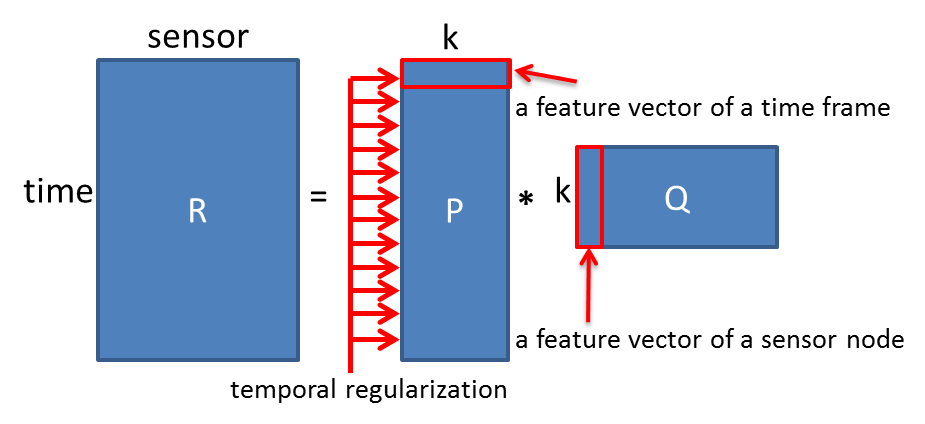
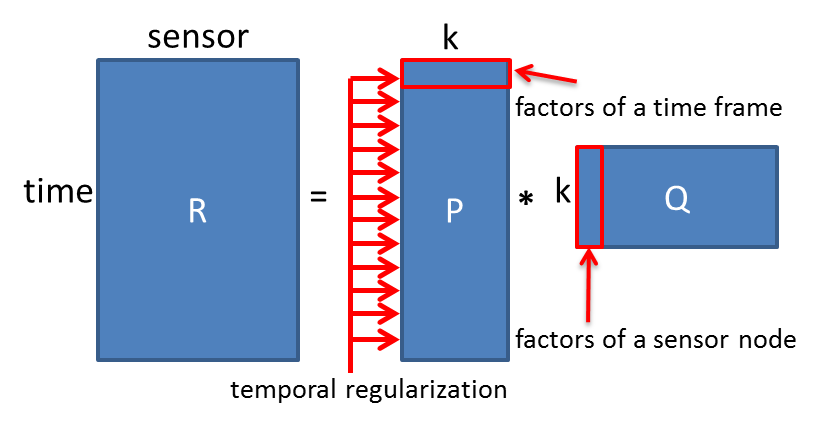
Matrix factorization update (notations and some details)

diff --git a/sensys2012/matrix_factorization.tex b/sensys2012/matrix_factorization.tex
@@ -2,7 +2,7 @@
 
 
 % need update and to be consistent with related work 
-The essence of Matrix Factorization~(MF) is to learn the latent factors from observed entries in the matrix, and use them to predict unobserved entries.  MF is one of the most successful models in domains like Collaborative Filtering~(CF) in recommendation systems. In CF, the rows of the matrix are users and the columns are items, and we want to predict unknown rating scores that reflect users' preference to items. The unknown scores prediction in CF is equivalent to missing data recovery in Wireless Sensor Network~(WSN), except the rows become time frames, the columns become sensor nodes, and the data characteristic is different. 
+The essence of Matrix Factorization~(MF) is to learn the latent factors from observed entries in the matrix, and use them to predict unobserved entries. MF is one of the most successful models in domains like Collaborative Filtering~(CF) in recommendation systems. In CF, the rows of the matrix are users and the columns are items, and we want to predict unknown rating scores that reflect users' preference to items. The unknown rating prediction in CF is equivalent to missing data recovery in Wireless Sensor Network~(WSN), except the rows become time frames, the columns become sensor nodes, and the data characteristic is different. 
 
 In the following, we will first introduce the basics of MF. Then we will talk about how we modify the objective function of MF and make it adapted to the WSN data, and finally the complete procedure of our proposed method.
 
@@ -10,15 +10,18 @@ In the following, we will first introduce the basics of MF. Then we will talk ab
 
 The idea of MF is strongly related to Singular Value Decomposition~(SVD). SVD decomposes a completely observed matrix~$\mathbf{R}$ into one diagonal matrix~$\mathbf{D}$ and two unitary matrix~$\mathbf{U}$ and~$\mathbf{V}$ such that
 \begin{equation*} \mathbf{R} = \mathbf{U}\mathbf{D}\mathbf{V}^T. \end{equation*}
-While keeping the largest K singular values, $\mathbf{U}_K \mathbf{D}_K \mathbf{V}_K$ is the best K-rank approximation of $\mathbf{R}$ under Frobenius Norm. 
+While keeping the largest K singular values, $\mathbf{U}_K \mathbf{D}_K \mathbf{V}_K^T$ is the best K-rank approximation of $\mathbf{R}$ under Frobenius Norm. 
 
-Yet, conventional SVD is undefined when the matrix~$\mathbf{R}$ is incomplete. Recent research shows\cite{koren2009matrix} when the matrix~$\mathbf{R}$ is partially observed, a better approach is to factorize $\mathbf{R}$ by considering observed entries only. By some numerical optimization procedures, we can obtain two small matrices~$\mathbf{P}_{MK}$ and $\mathbf{Q}_{NK}$ that approximate observed entries in the matrix~$\mathbf{R}_{MN}$
-\begin{equation*}\mathbf{R} \approx \mathbf{P} \mathbf{Q}^T.\end{equation*}
-If $\mathbf{R}$ is a matrix of temperature readings, then each row of $\mathbf{P}$ represents a latent factor of the time frame and each row of $\mathbf{Q}$ is a latent factor of the sensor node.
+Yet, conventional SVD is undefined when the matrix~$\mathbf{R}$ is incomplete. Recent research shows\cite{koren2009matrix} when the matrix~$\mathbf{R}$ is partially observed, a better approach is to factorize $\mathbf{R}$ by considering observed entries only. By some numerical optimization procedures, we obtain two small matrices~$\mathbf{P}_{MK}$ and $\mathbf{Q}_{KN}$ that approximate observed entries in the matrix~$\mathbf{R}_{MN}$
+\begin{equation*}\mathbf{R} \approx \mathbf{P} \mathbf{Q}.\end{equation*}
+If $\mathbf{R}$ is a matrix of temperature readings, then each row of $\mathbf{P}$ represents latent factors of the time frame and each column of $\mathbf{Q}$ is the latent factors of the sensor node.
 
-Here we adopted the biased MF: row bias $\mu_u$ and column bias $\mu_i$ is added on every row and column. The indices $u$, $i$ come from recommendation literature where the rows are users and columns are items. In a temperature monitoring system, the row bias can be understood as the average temporal at the time, and the column bias reflects the constant bias of the sensor node. Therefore, our prediction $\hat{r}_{u,i} = \mu_u + \mu_i + \mathbf{p}_u^T \mathbf{q}_i$. After adding the regularization term, the whole objective function becomes
-\begin{equation*} \frac{1}{2}\sum_{u,i}{(r_{u,i} - \hat{r}_{u,i})}^2 + \frac{\beta_1}{2}\sum_u{\mu_u^2}, + \frac{\beta_2}{2}\sum_i{\mu_i^2} + \frac{\beta_3}{2}\sum_u{||\mathbf{p}_u||^2} + \frac{\beta_4}{2}\sum_i{||\mathbf{q}_i||^2}.\end{equation*}
-Among which, $\mathbf{p}_u$ and $\mathbf{q}_i$ are feature vectors of row $u$ and column $i$. $\beta_1$, $\beta_2$, $\beta_3$, $\beta_4$ are parameters that control the strength of regularization.
+Here we adopted the biased MF: row bias $\mu_m$ and column bias $\mu_n$ is added for predicting $r_{m,n}$. In a temperature monitoring system, the row bias can be understood as the average temperature at the time, and the column bias reflects the systematic bias of the sensor node. Therefore, our prediction $\hat{r}_{m,n} = \mu_m + \mu_n + \mathbf{p}_m \mathbf{q}_n$. After adding the regularization term, the whole objective function becomes
+\begin{equation*}\begin{aligned}
+\frac{1}{2}\sum_{m,n}{(r_{m,n} - \hat{r}_{m,n})}^2 & + \frac{\beta_1}{2}\sum_m{\mu_m^2} + \frac{\beta_2}{2}\sum_n{\mu_n^2}\\
+& + \frac{\beta_3}{2}\sum_m{||\mathbf{p}_m||^2} + \frac{\beta_4}{2}\sum_n{||\mathbf{q}_n||^2}.\\
+\end{aligned}\end{equation*}
+In the equation, $\mathbf{p}_m$ is the row factors of $\mathbf{P}$ (for time $m$), and $\mathbf{q}_n$ is the column factors of $\mathbf{Q}$ (for sensor node $n$) respectively. $\beta_1$, $\beta_2$, $\beta_3$, $\beta_4$ are parameters that control the strength of regularization.
 
 \subsection{Temporal Regularized Matrix Factorization}
 
@@ -30,10 +33,14 @@ Among which, $\mathbf{p}_u$ and $\mathbf{q}_i$ are feature vectors of row $u$ an
 
 %cite temporal reference
 
-Although the goals of both CF and WSN data recovery are missing data prediction, the data characteristics are very different. Firstly, in CF we have millions of users and items. In contrast, there are usually many time frames but few sensors in WSN. The spatial correlation of the sensors may be easily learnt from the data, but the temporal correlation is badly captured. Secondly, users and items are independent in CF, while time frames in WSN have a fixed order: closer time frames have stronger correlation. Having the observation, we come up with Temporal Regularized Matrix Factorization (TRMF) to better fit the characteristic of WSN data. 
+Although the goals of both CF and WSN data recovery are unobserved entry prediction, the data characteristics are very different. Firstly, in CF we have millions of users and items. In contrast, there are usually many time frames but few sensors in WSN. The spatial correlation of the sensors may be easily learnt from the data, but the temporal correlation is badly captured. Secondly, users and items are independent in CF, while time frames in WSN have a fixed order: closer time frames have stronger correlation. Having the observation, we come up with Temporal Regularized Matrix Factorization (TRMF) to better fit the characteristic of WSN data. 
 
 TRMF adds a temporal regularization term on conventional MF. The temporal regularization forces the bias terms and features of adjacent rows to be similar, which reflects our intuition that readings in adjacent time frames should be similar. To be specific, we change our objective function into 
-\begin{equation*}\begin{aligned} \frac{1}{2}\sum_{u,i}{(r_{u,i} - \hat{r}_{u,i})}^2 &+ \frac{\beta_1}{2}\sum_u{\mu_u^2}, + \frac{\beta_2}{2}\sum_i{\mu_i^2} + \frac{\beta_3}{2}\sum_u{||\mathbf{p}_u||^2} + \frac{\beta_4}{2}\sum_i{||\mathbf{q}_i||^2}\\ &+ \frac{1}{2}\gamma_1\sum{(\mu_u-\mu_{u+1})^2} + \frac{1}{2}\gamma_2\sum{||\mathbf{p}_u-\mathbf{p}_{u+1}||^2}.\end{aligned}\end{equation*}
+\begin{equation*}\begin{aligned}
+\frac{1}{2}\sum_{m,n}{(r_{m,n} - \hat{r}_{m,n})}^2 &+ \frac{\beta_1}{2}\sum_m{\mu_m^2} + \frac{\beta_2}{2}\sum_n{\mu_n^2}\\
+&+ \frac{\beta_3}{2}\sum_m{||\mathbf{p}_m||^2} + \frac{\beta_4}{2}\sum_n{||\mathbf{q}_n||^2}\\ 
+&+ \frac{1}{2}\gamma_1\sum{(\mu_m-\mu_{m+1})^2} + \frac{1}{2}\gamma_2\sum{||\mathbf{p}_m-\mathbf{p}_{m+1}||^2}.
+\end{aligned}\end{equation*}
 
 
 \subsection{Multivariate TRMF}
@@ -46,14 +53,14 @@ The objective function remains the same form except that for each time frame the
 \label{optimation_procedure}
 Several approaches have been suggested for solving MF, like Stochastic Gradient Descent (SGD)\cite{koren2009matrix,chih2008large}, Alternating Least Square (ALS)\cite{koren2009matrix,zhou2008large} and Newton's method\cite{buchanan2005damped}. We adopt SGD for its efficiency and simplicity. 
 
-In SGD, we incrementally update our model by considering one observed entry at a time. Focused on one observed reading $r_{u,i}$, the objective function of MF is
-\begin{equation*} \frac{1}{2}(r_{u,i} - \hat{r}_{u,i})^2 + \frac{\beta_1}{2}\mu_u^2 + \frac{\beta_2}{2}\mu_i^2 + \frac{\beta_3}{2}||\mathbf{p}_u||^2 + \frac{\beta_4}{2}||\mathbf{q}_i||^2\end{equation*}
+In SGD, we incrementally update our model by considering one observed entry at a time. Focused on one observed reading $r_{m,n}$, the objective function of MF is
+\begin{equation*} \frac{1}{2}(r_{m,n} - \hat{r}_{m,n})^2 + \frac{\beta_1}{2}\mu_m^2 + \frac{\beta_2}{2}\mu_n^2 + \frac{\beta_3}{2}||\mathbf{p}_m||^2 + \frac{\beta_4}{2}||\mathbf{q}_n||^2\end{equation*}
 Thus, the update equation is\\
 $\begin{cases}
-	\mu_u' = \mu_u - \eta_1 ((\hat{r}_{u,i}-r_{u,i}) + \beta_1 \mu_u) \\
-	\mu_i' = \mu_i - \eta_1 ((\hat{r}_{u,i}-r_{u,i}) + \beta_2 \mu_i) \\
-	\mathbf{p}_{u}' = \mathbf{p}_{u} - \eta_2 ((\hat{r}_{u,i}-r_{u,i})\mathbf{q}_{i} + \beta_3 \mathbf{p}_{u})\\
-	\mathbf{q}_{i}' = \mathbf{q}_{i} - \eta_2 ((\hat{r}_{u,i}-r_{u,i})\mathbf{p}_{u} + \beta_4 \mathbf{q}_{i})\\
+	\mu_m' = \mu_m - \eta_1 ((\hat{r}_{m,n}-r_{m,n}) + \beta_1 \mu_m) \\
+	\mu_n' = \mu_n - \eta_1 ((\hat{r}_{m,n}-r_{m,n}) + \beta_2 \mu_n) \\
+	\mathbf{p}_{m}' = \mathbf{p}_{m} - \eta_2 ((\hat{r}_{m,n}-r_{m,n})\mathbf{q}_{n} + \beta_3 \mathbf{p}_{m})\\
+	\mathbf{q}_{n}' = \mathbf{q}_{n} - \eta_2 ((\hat{r}_{m,n}-r_{m,n})\mathbf{p}_{m} + \beta_4 \mathbf{q}_{n})\\
 \end{cases}$\\
 After we use every rating in the training set once, we update the model according to the temporal regularization
 $\begin{cases}
@@ -67,7 +74,7 @@ We summarize our algorithm in \textbf{Procedure \ref{alg:TRMF}}. Some details ar
 
 Unlike the rating scores in CF are in a fixed range, readings from WSN are real-valued, and the range varies in different applications. Before training, we normalize the training set by its mean and variance, and in training we update the model by the normalized training set. While predicting validation set and testing set, we restore the prediction to the original mean and variance range and then calculate the error.
 
-There are two benefits of data normalization. Firstly, when the global mean becomes zero, the origin of our model becomes a good initial point. The initial point impacts the performance of MF greatly because the objective function of MF is non-convex and we can only find the local minimum. Secondly, normalization enables us to have similar learning target on different data sets. It simplifies the parameter tuning task for TRMF and it is the foundation of Multivariate TRMF. 
+There are two benefits of data normalization. Firstly, when the global mean becomes zero, the origin of our model becomes a good initial point. The initial point impacts the performance of MF greatly because the objective function of MF is non-convex and we can only find the local minimum. Secondly, normalization makes different data sets look similar. It simplifies the parameter tuning task for TRMF and it is the foundation of Multivariate TRMF. 
 
 
 \aPoint{Initialization}
@@ -85,45 +92,26 @@ For all components of every $\mathbf{p}_{u}$ and $\mathbf{q}_{i}$, we set them a
 
 We seem to have many parameters: conventional regularization for user bias~$\beta_1$, item bias~$\beta_2$, user feature~$\beta_3$, item feature~$\beta_4$, temporal regularization term for bias~$\gamma_1$ and for feature~$\gamma_2$, learning rate for bias~$\eta_1$ and for feature~$\eta_2$, number of features~$K$, but in many cases we can achieve reasonable performance by setting 
 \begin{equation*}\beta_1 = \beta_2 = \beta_3 = \beta_4, \gamma_1 = \gamma_2, \eta_1 = \eta_2. \end{equation*}
-This is also our setting in the experiment. Moreover, we will share our experience about setting parameters in \textbf{Section \ref{subsec:parameter}}.
+This is also our setting in the experiment. We share our experience about setting parameters in \textbf{Section \ref{subsec:parameter}}.
+
 \aPoint{Stopping Criterion}
 
-We need to know when to stop updating the model. We should split the available information into a training set and validation set. Our procedure is:
-\begin{enumerate}
-	\item Train on the training set. Stop if validation error is increasing and (current iteration number $-$ best iteration number $>$ threshold).  
-	\item Rerun the training process to train on the training and validation set. Stop at the iteration number we obtained in step 1.
-	\item Output the model and do prediction on a testing set. 
-\end{enumerate}
-The threshold here we choose 500. This will be helpful to get over some local minimums.
-
-\aPoint{Robust Weighting}
-
-Noisy and faulty readings are common in WSN data. Usually the faulty readings deviate greatly from normal readings, so they have huge impact on our models. To cope with faulty readings, we can slightly change the error term
-\begin{equation*}RobustError(r_{u,i}, \hat{r}_{u,i}) = 
-\begin{cases}
-	\frac{1}{2}(r_{u,i}-\hat{r}_{u,i})^2 & \mbox{if $\frac{1}{2}(r_{u,i}-\hat{r}_{u,i})^2 < \epsilon$;}\\
-	\epsilon & \mbox{otherwise},
-\end{cases}
-\end{equation*}
-or change to L1 norm.
-
-However, faulty readings are not our main focus here and we don't want them to mislead our evaluation, so in our experiment we simply remove the outlier readings that are too large or too small.
+We need to know when to stop updating the model. We use validation set and stop training if validation error is increasing and the current iteration number minus the best iteration number is greater than a threshold.  The threshold here we choose 500. 
 
 \begin{algorithm}
 	\caption{Temporal Regularized Matrix Factorization}
 	\label{alg:TRMF}
 	\textbf{Parameter:} $\beta_1$, $\beta_2$, $\beta_3$, $\beta_4$, $\gamma_1$, $\gamma_2$, $\eta_1$, $\eta_2$, $K$\\
 	\textbf{Input:} training set, validation set
-	\begin{algorithmic}[1]
-		\State Normalize training set as $\mathcal{D}$
-		\State Initialize the $\mu_u$, $\mu_i$, $\mathbf{p}_u$, $\mathbf{q}_i$ for all $u$, $i$
+	\begin{algorithmic}
+		\State Normalize the training set as $\mathcal{D}$
+		\State Initialize the $\mu_m$, $\mu_n$, $\mathbf{p}_m$, $\mathbf{q}_n$ for all $m$, $n$
 		\Repeat
-			\State \textbf{for} each observed reading $r_{u,i}$ in $\mathcal{D}$
-				\State \indent Update $\mu_u$, $\mu_i$, $\mathbf{p}_{u}$, $\mathbf{q}_{i}$
-			\State Update $\mu_u$, $\mathbf{p}_u$ for all $u$ by temporal regularization
+			\State \textbf{for} each observed reading $r_{m,n}$ in $\mathcal{D}$
+				\State \indent Update $\mu_m$, $\mu_n$, $\mathbf{p}_{m}$, $\mathbf{q}_{n}$
+			\State Update $\mu_m$, $\mathbf{p}_m$ for every $m$ by temporal regularization
 		\Until{stopping criterion is met}
-		\State Rerun the whole algorithm to train on training and validation set 
-		\State Output the model
+		\State Output the model for testing set prediction
 	\end{algorithmic}
 \end{algorithm}
 
